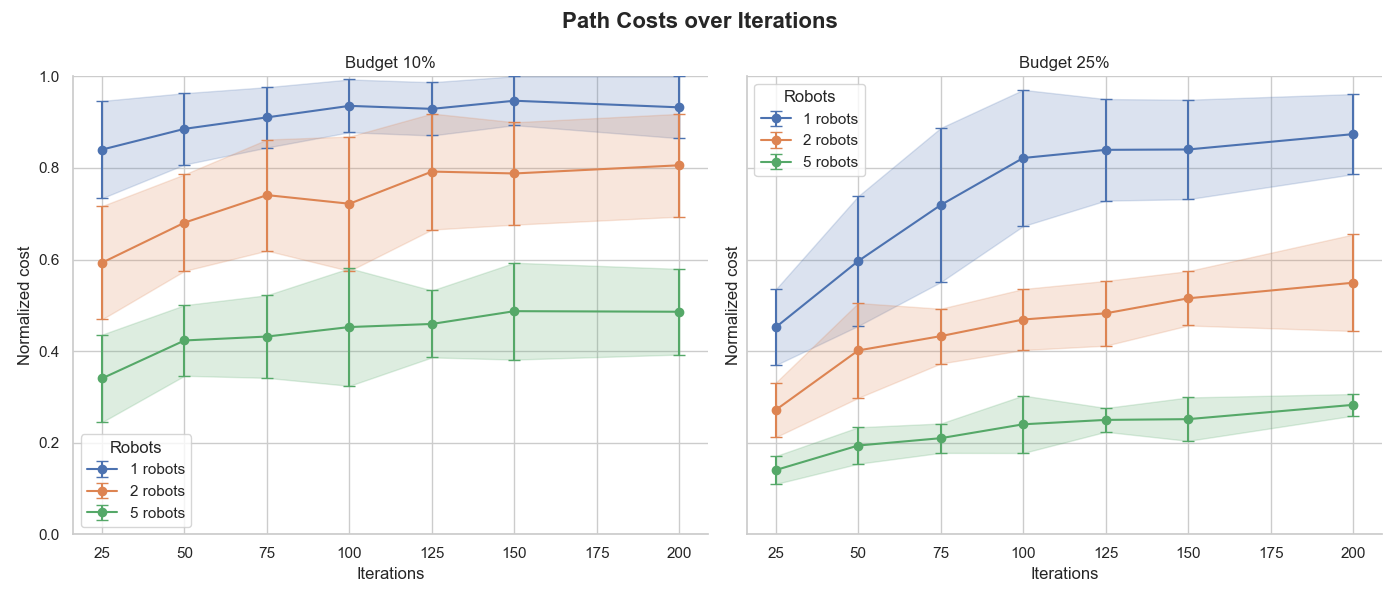
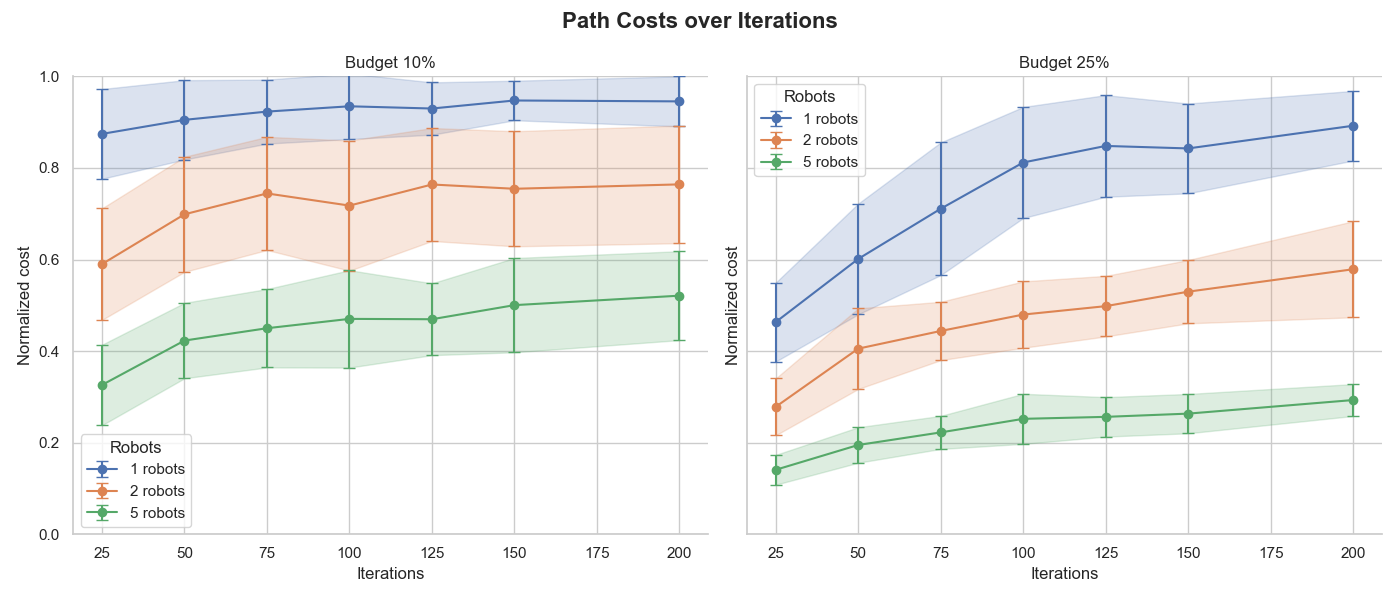
New figures + added analyses

diff --git a/results.py b/results.py
@@ -210,11 +210,12 @@ def analyze_results():
 from itertools import product
 def load_comparison_results(base_path="Result_files/small/comparison/", n_iterations=20):
     all_data = []
-    methods = ['_method', '_uninformed', '_coverage']
+    methods = ['_method', '_uninformed','_coverage_new']
     scenario_combinations = list(product([1, 2, 3], repeat=4))  # 81 combinations
 
     # for it in range(n_iterations):
     i=1
+    # for it in [1]:
     for it in [2,5,6,8,9,12,13,15,16,17]:
         for scenario in scenario_combinations:
             for method in methods:
@@ -253,7 +254,8 @@ def load_comparison_results(base_path="Result_files/small/comparison/", n_iterat
                     "normalized_cost": (finalcost / ((399/100)*budget*robots)),
                     "runtime_sec": time_total
                 })
-
+                if finalinfo / totalinfo > 1:
+                    print("Warning! Normalized info surpasses 1 for ", it, scenario, method, " with result ", finalinfo/totalinfo)
     df = pd.DataFrame(all_data)
     return df
 
@@ -331,12 +333,13 @@ def analyze_results_new(test="comparison"):
                     print("") #whiteline between scenarios
     elif test == "comparison_small":
         analysis_options = {0:"avg",1:"scenario",2:"top"}
-        analysis = analysis_options[1]
+        analysis = analysis_options[0]
         print("Analysis style: ", analysis)
         df = load_comparison_results()
         # Average performance per method over all scenarios
         if analysis=="avg":
-            analysis_outcome = df.groupby('method')[['normalized_info', 'finalcost', 'runtime_sec']].describe()
+            # analysis_outcome = df.groupby('method')[['normalized_info', 'finalcost', 'runtime_sec']].describe()
+            analysis_outcome = df.groupby('method')[['normalized_info', 'normalized_cost']].describe()
             print(analysis_outcome)
 
         # Or by scenario configuration
@@ -355,6 +358,7 @@ def analyze_results_new(test="comparison"):
 
             # --- Run and append per-scenario ANOVA results ---
             analysis_outcome = add_per_scenario_anova(df, analysis_outcome)
+            # analysis_outcome = add_per_scenario_ttest(df, analysis_outcome)
 
 
             print(analysis_outcome.to_markdown(index=False))
@@ -429,8 +433,8 @@ def analyze_results_new(test="comparison"):
         # ---------- PLOTTING ----------
         sns.set(style="whitegrid")
         fig, axes = plt.subplots(1, 2, figsize=(14, 6), sharey=True)
-        y_metric = "normalized_info"
-        # y_metric = "normalized_cost"
+        # y_metric = "normalized_info"
+        y_metric = "normalized_cost"
         # y_metric = "time_total"
         for ax, budget_level in zip(axes, [10, 25]):
             df_budget = df[round(df["budget_percent"]) == budget_level] # filter by budget level
@@ -489,6 +493,28 @@ def analyze_results_new(test="comparison"):
         plt.tight_layout()
         plt.show()
 
+
+        # Test whether the jump from 2 to 5 robots provides a significant increase in information:
+        for budget in [10, 25]:
+            print(f"\n--- Budget: {budget}% ---")
+            for iteration in sorted(df["iterations"].unique()):
+                subset = df[(round(df["budget_percent"]) == budget) & (df["iterations"] == iteration)]
+                vals2 = subset[subset["robots"] == 2]["normalized_info"]
+                vals5 = subset[subset["robots"] == 5]["normalized_info"]
+
+                if len(vals2) > 1 and len(vals5) > 1:
+                    tstat, pval = ttest_ind(vals2, vals5, equal_var=False)
+                    print(f"Iter {iteration}: p = {pval:.4f}")
+
+        # verify increase at 200 iterations 25% budget from 2 to 5 robots
+        # Mean performance at 200 iterations, 25% budget
+        subset = df[(round(df["budget_percent"]) == 25) & (df["iterations"] == 200)]
+        mean2 = subset[subset["robots"] == 2]["normalized_info"].mean()
+        mean5 = subset[subset["robots"] == 5]["normalized_info"].mean()
+
+        increase_percent = 100 * (mean5 - mean2) / mean2
+        print(f"Normalized info ↑ from {mean2:.3f} to {mean5:.3f} → {increase_percent:.2f}% increase")
+
     # Reading out results of one case
     # rounds = np.load(str("Result_files/small/increasing_iterations/[1, 2, 2, 1]_method_b40_r5_it200_1/rounds.npy"))
     # path = np.load(str("Result_files/small/increasing_iterations/[1, 2, 2, 1]_method_b40_r5_it200_1/finalpath.npy"))
@@ -496,6 +522,51 @@ def analyze_results_new(test="comparison"):
     #     print(path[i],rounds[i])
     # time = np.load(str("Result_files/small/increasing_iterations/[1, 2, 2, 1]_method_b40_r2_it200_0/computingtime.npy"))
     # print("Time: ", time)
+
+from scipy.stats import ttest_ind
+import numpy as np
+import pandas as pd
+
+def add_per_scenario_ttest(df, scenario_df, scenario_columns=['robots', 'budget_percent', 'gaussians_nr', 'gaussians_size']):
+    """
+    Performs an independent two-sample t-test per scenario between 'method' and 'coverage_new'.
+    Appends results (p-value, significance) to scenario_df.
+    """
+    pvals = []
+    significance = []
+
+    for _, row in scenario_df.iterrows():
+        # Extract scenario values
+        scenario_values = {col: row[col] for col in scenario_columns}
+
+        # Subset data to the current scenario
+        mask = (df[scenario_columns] == pd.Series(scenario_values)).all(axis=1)
+        group = df[mask]
+
+        # Filter for only 'method' and 'coverage_new'
+        methods_of_interest = group[group['method'].isin(['method', 'coverage_new'])]
+
+        # Get samples for each
+        sample_method = methods_of_interest[methods_of_interest['method'] == 'method']['normalized_info']
+        sample_coverage = methods_of_interest[methods_of_interest['method'] == 'coverage_new']['normalized_info']
+
+        # Check both groups have samples
+        if len(sample_method) > 1 and len(sample_coverage) > 1:
+            try:
+                t_stat, p_val = ttest_ind(sample_method, sample_coverage, equal_var=True)  # Welch's t-test
+                pvals.append(p_val)
+                significance.append(p_val < 0.05)
+            except Exception:
+                pvals.append(np.nan)
+                significance.append(False)
+        else:
+            pvals.append(np.nan)
+            significance.append(False)
+
+    scenario_df['ttest_pvalue'] = pvals
+    scenario_df['significant'] = significance
+    return scenario_df
+
 
 from scipy.stats import f_oneway
 
@@ -555,7 +626,7 @@ def recompute_uninformed_finalinfo(base_path="Result_files/small/comparison", it
             if os.path.exists(scenario_basepath):
                 print(scenario_basepath)
                 uncertainty_path = os.path.join(scenario_basepath, 'uncertainty_matrix.npy')
-                uninformed_path = os.path.join(base_path, str(it), scenario_str + "_uninformed")
+                uninformed_path = os.path.join(base_path, str(it), scenario_str + "_coverage")
 
                 # Paths for existing files
                 infopath_file = os.path.join(uninformed_path, 'infopath.npy')
@@ -588,6 +659,6 @@ if __name__ == '__main__':
     #analyze_results()
     # visualize_results()
     #analyze_results_new()
-    #analyze_results_new("increasing_iterations_small")
-    analyze_results_new("comparison_small")
-    #recompute_uninformed_finalinfo(iterations=[2,5,8,12,16])
+    analyze_results_new("increasing_iterations_small")
+    # analyze_results_new("comparison_small")
+    # recompute_uninformed_finalinfo(iterations=[2,5,6,8,9,12,13,15,16,17])

diff --git a/new_main_small.py b/new_main_small.py
@@ -107,7 +107,8 @@ def prepandtest(test="comparison"):
     if test=="comparison":
         scenariolist = list(product([1, 2, 3], repeat=4))
         # for it in range(2,20):
-        for it in [2,5,6,8,9,12,13,15,16,17]:
+        # for it in [2,5,6,8,9,12,13,15,16,17]:
+        for it in range(18,28):
             pathname = str("Result_files/small/comparison/") + str(it) 
             if not os.path.exists(pathname):
                 os.makedirs(str("Result_files/small/comparison/") + str(it))
@@ -219,7 +220,7 @@ def prepandtest(test="comparison"):
                     
                 # Budgeted coverage
                 budget_matrix = deepcopy(uncertainty_matrix)
-                pathname = str("Result_files/small/comparison/")+str(it)+"/"+ str(scenario) + str("_coverage")+str("/")
+                pathname = str("Result_files/small/comparison/")+str(it)+"/"+ str(scenario) + str("_coverage_new")+str("/")
                 if not os.path.exists(pathname):
                     os.makedirs(pathname)
                     startpos=[50,40]

diff --git a/budgeted_coverage.py b/budgeted_coverage.py
@@ -126,9 +126,11 @@ def max_coverage(map,budget,startpos,multirobot=1,show=True):
                     if np.max(translated_coords)>map.shape[1]: # if it goes outside of the map, skip it
                         continue 
                     info=0
+                    added_coords=[] # prevent doubles
                     for [x_coord,y_coord] in translated_coords:
-                        if x_coord in range(map.shape[0]) and y_coord in range(map.shape[1]):
+                        if x_coord in range(map.shape[0]) and y_coord in range(map.shape[1]) and [x_coord,y_coord] not in added_coords:
                             info+= map[y_coord][x_coord]
+                            added_coords.append([x_coord,y_coord])
                     if [x,y]!=startpos:
                         info,travel_coords = addTravelInfo(map,translated_coords,info)
                     if info>best_info:
